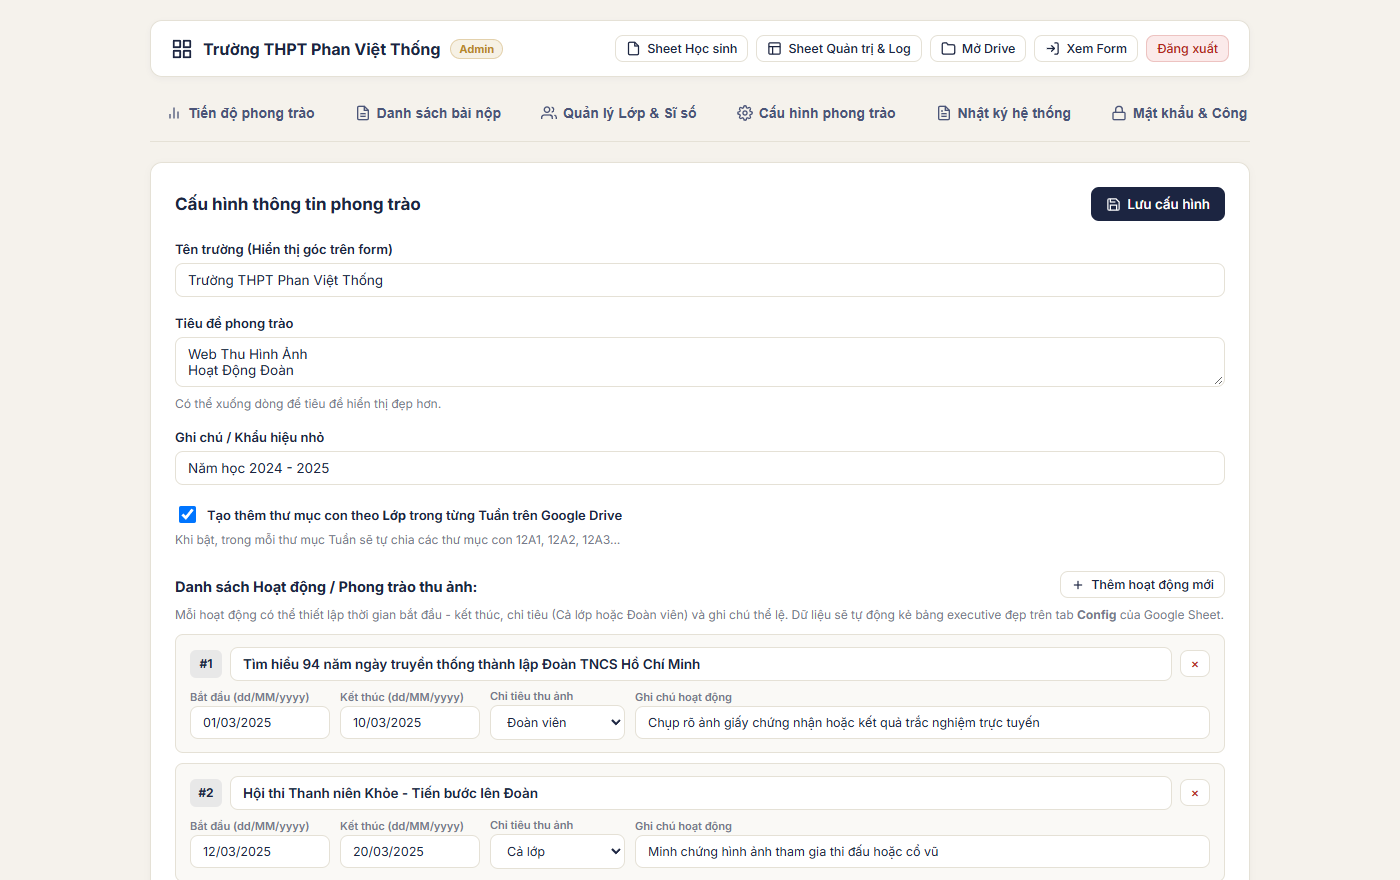
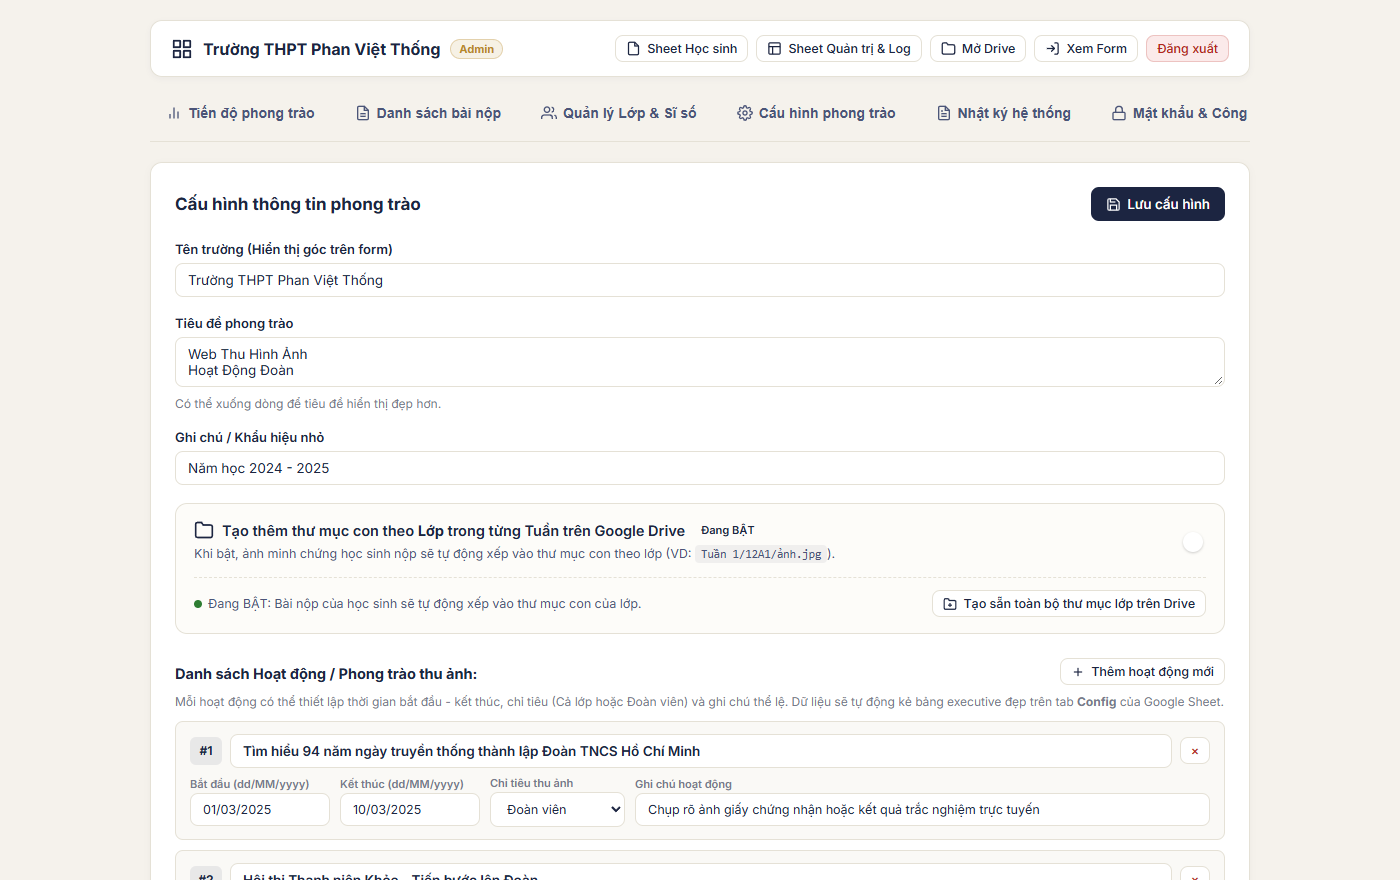
fix: make subfolder by class toggle interactive and add create folders button
- Synchronize D1 and D2 cells in Config sheet so setting changes persist reliably
- Add adminToggleSubfolderByClass for instant auto-save when flipping switch
- Add adminCreateAllClassSubfolders to pre-create all class folders on Google Drive
- Upgrade UI to modern iOS toggle switch with status badge and feedback
- Add action button to create all class folders on Drive with one click

Changed region(s): [[0.1229, 0.5523, 0.8907, 1.0], [0.8293, 0.9818, 0.86, 1.0], [0.8293, 0.8898, 0.86, 0.9205]]

diff --git a/Admin.html b/Admin.html
@@ -524,6 +524,105 @@
         gap: 8px;
       }
 
+      /* ================= SUBFOLDER SETTING CARD & SWITCH ================= */
+      .subfolder-setting-card {
+        background: #FDFCF9;
+        border: 1px solid var(--line);
+        border-radius: 12px;
+        padding: 16px 18px;
+        margin-bottom: 20px;
+        transition: all 0.2s ease;
+      }
+      .subfolder-setting-card:hover {
+        border-color: #CBD5E1;
+      }
+      .subfolder-setting-main {
+        display: flex;
+        justify-content: space-between;
+        align-items: center;
+        gap: 16px;
+      }
+      .subfolder-setting-info {
+        flex: 1;
+      }
+      .subfolder-setting-title {
+        display: flex;
+        align-items: center;
+        gap: 8px;
+        font-size: 14.5px;
+        font-weight: 600;
+        color: var(--navy);
+        flex-wrap: wrap;
+      }
+      .subfolder-setting-desc {
+        font-size: 12.5px;
+        color: var(--ink-soft);
+        margin-top: 5px;
+        line-height: 1.45;
+      }
+      .subfolder-setting-desc code {
+        background: rgba(28,37,65,0.06);
+        padding: 2px 6px;
+        border-radius: 4px;
+        font-family: monospace;
+        font-size: 11.5px;
+      }
+      .subfolder-actions-bar {
+        display: flex;
+        justify-content: space-between;
+        align-items: center;
+        margin-top: 14px;
+        padding-top: 12px;
+        border-top: 1px dashed var(--line);
+        flex-wrap: wrap;
+        gap: 10px;
+      }
+      .switch-toggle {
+        position: relative;
+        display: inline-block;
+        width: 48px;
+        height: 26px;
+        flex-shrink: 0;
+        cursor: pointer;
+      }
+      .switch-toggle input {
+        opacity: 0;
+        width: 0;
+        height: 0;
+      }
+      .switch-toggle .slider {
+        position: absolute;
+        cursor: pointer;
+        top: 0;
+        left: 0;
+        right: 0;
+        bottom: 0;
+        background-color: #CBD5E1;
+        transition: 0.25s ease;
+        border-radius: 26px;
+      }
+      .switch-toggle .slider:before {
+        position: absolute;
+        content: "";
+        height: 20px;
+        width: 20px;
+        left: 3px;
+        bottom: 3px;
+        background-color: white;
+        transition: 0.25s ease;
+        border-radius: 50%;
+        box-shadow: 0 1px 3px rgba(0,0,0,0.25);
+      }
+      .switch-toggle input:checked + .slider {
+        background-color: var(--teal);
+      }
+      .switch-toggle input:focus + .slider {
+        box-shadow: 0 0 1px var(--teal);
+      }
+      .switch-toggle input:checked + .slider:before {
+        transform: translateX(22px);
+      }
+
       /* ================= BANNERS & NOTIFICATIONS ================= */
       .banner {
         display: flex;
@@ -957,12 +1056,36 @@
             <input type="text" id="cfgNote" class="input-text" style="width: 100%;" placeholder="VD: KHKT 2026-2027">
           </div>
 
-          <div class="form-group">
-            <label style="display: flex; align-items: center; gap: 8px; cursor: pointer;">
-              <input type="checkbox" id="cfgSubfolder" style="width: 17px; height: 17px;">
-              <span>Tạo thêm thư mục con theo <b>Lớp</b> trong từng Tuần trên Google Drive</span>
-            </label>
-            <small class="help">Khi bật, trong mỗi thư mục Tuần sẽ tự chia các thư mục con 12A1, 12A2, 12A3...</small>
+          <div class="subfolder-setting-card">
+            <div class="subfolder-setting-main">
+              <div class="subfolder-setting-info">
+                <div class="subfolder-setting-title">
+                  <svg width="20" height="20" viewBox="0 0 24 24" fill="none" stroke="currentColor" stroke-width="2" style="color: var(--teal);"><path d="M22 19a2 2 0 0 1-2 2H4a2 2 0 0 1-2-2V5a2 2 0 0 1 2-2h5l2 3h9a2 2 0 0 1 2 2z"></path></svg>
+                  <span>Tạo thêm thư mục con theo <b>Lớp</b> trong từng Tuần trên Google Drive</span>
+                  <span id="subfolderStatusBadge" class="badge-status badge-done" style="font-size: 11px; padding: 2px 8px;">Đang Tắt</span>
+                </div>
+                <div class="subfolder-setting-desc">
+                  Khi bật, ảnh minh chứng học sinh nộp sẽ tự động xếp vào thư mục con theo lớp (VD: <code>Tuần 1/12A1/ảnh.jpg</code>).
+                </div>
+              </div>
+              <div class="subfolder-toggle-wrapper">
+                <label class="switch-toggle" title="Nhấn để Bật / Tắt ngay lập tức">
+                  <input type="checkbox" id="cfgSubfolder" onchange="handleSubfolderToggle(this)">
+                  <span class="slider round"></span>
+                </label>
+              </div>
+            </div>
+
+            <div class="subfolder-actions-bar">
+              <span id="subfolderFeedback" style="font-size: 12.5px; color: var(--ink-soft); display: flex; align-items: center; gap: 6px;">
+                <span id="subfolderFeedbackDot" style="width: 8px; height: 8px; border-radius: 50%; background: #94A3B8; display: inline-block;"></span>
+                <span id="subfolderFeedbackText">Thay đổi được tự động lưu ngay khi gạt công tắc.</span>
+              </span>
+              <button type="button" id="btnCreateAllFolders" onclick="createAllClassFoldersOnDrive()" class="btn btn-outline btn-sm" title="Tự động tạo sẵn tất cả thư mục của từng lớp trong các tuần trên Drive">
+                <svg width="14" height="14" viewBox="0 0 24 24" fill="none" stroke="currentColor" stroke-width="2"><path d="M22 19a2 2 0 0 1-2 2H4a2 2 0 0 1-2-2V5a2 2 0 0 1 2-2h5l2 3h9a2 2 0 0 1 2 2z"></path><line x1="12" y1="11" x2="12" y2="17"></line><line x1="9" y1="14" x2="15" y2="14"></line></svg>
+                Tạo sẵn toàn bộ thư mục lớp trên Drive
+              </button>
+            </div>
           </div>
 
           <div class="form-group" style="margin-top: 24px;">
@@ -1360,6 +1483,7 @@
             document.getElementById('cfgTitle').value = res.config.tieuDe || '';
             document.getElementById('cfgNote').value = res.config.ghiChu || '';
             document.getElementById('cfgSubfolder').checked = !!res.config.subfolderByClass;
+            updateSubfolderUI(!!res.config.subfolderByClass);
 
             renderWeeksConfig(res.config.weeks || []);
 
@@ -2244,6 +2368,89 @@
             showBanner('globalMsg', 'error', 'Lỗi lưu: ' + err.toString());
           })
           .adminUpdateConfig(adminToken, newCfg);
+      }
+
+      // Cập nhật giao diện Switch & Badge thư mục con theo lớp
+      function updateSubfolderUI(isSub) {
+        var cb = document.getElementById('cfgSubfolder');
+        if (cb) cb.checked = isSub;
+        var badge = document.getElementById('subfolderStatusBadge');
+        var dot = document.getElementById('subfolderFeedbackDot');
+        var text = document.getElementById('subfolderFeedbackText');
+        if (badge) {
+          if (isSub) {
+            badge.className = 'badge-status badge-done';
+            badge.textContent = 'Đang BẬT';
+          } else {
+            badge.className = 'badge-status badge-zero';
+            badge.textContent = 'Đang TẮT';
+          }
+        }
+        if (dot) {
+          dot.style.background = isSub ? '#2E7D32' : '#94A3B8';
+        }
+        if (text) {
+          text.textContent = isSub
+            ? 'Đang BẬT: Bài nộp của học sinh sẽ tự động xếp vào thư mục con của lớp.'
+            : 'Đang TẮT: Bài nộp sẽ lưu thẳng vào thư mục của tuần.';
+        }
+      }
+
+      // Xử lý bật/tắt nhanh bằng công tắc switch
+      function handleSubfolderToggle(cb) {
+        var isChecked = cb.checked;
+        updateSubfolderUI(isChecked);
+        var text = document.getElementById('subfolderFeedbackText');
+        if (text) text.textContent = 'Đang lưu cài đặt vào Google Sheet...';
+
+        google.script.run
+          .withSuccessHandler(function(res) {
+            if (res.success) {
+              updateSubfolderUI(res.enabled);
+              showBanner('globalMsg', 'success', res.message);
+            } else {
+              updateSubfolderUI(!isChecked);
+              showBanner('globalMsg', 'error', res.message);
+            }
+          })
+          .withFailureHandler(function(err) {
+            updateSubfolderUI(!isChecked);
+            showBanner('globalMsg', 'error', 'Lỗi lưu cài đặt: ' + err.toString());
+          })
+          .adminToggleSubfolderByClass(adminToken, isChecked);
+      }
+
+      // Khởi tạo trước tất cả thư mục lớp trên Drive
+      function createAllClassFoldersOnDrive() {
+        if (!confirm('Hệ thống sẽ kiểm tra và tạo sẵn toàn bộ thư mục con của các lớp trong từng Tuần trên Google Drive. Bạn có muốn tiếp tục?')) {
+          return;
+        }
+
+        var btn = document.getElementById('btnCreateAllFolders');
+        var oldHtml = btn.innerHTML;
+        btn.disabled = true;
+        btn.innerHTML = '<div class="spinner"></div> Đang tạo trên Drive...';
+
+        google.script.run
+          .withSuccessHandler(function(res) {
+            btn.disabled = false;
+            btn.innerHTML = oldHtml;
+            if (res.success) {
+              updateSubfolderUI(true);
+              showBanner('globalMsg', 'success', res.message);
+              alert(res.message);
+            } else {
+              showBanner('globalMsg', 'error', res.message);
+              alert(res.message);
+            }
+          })
+          .withFailureHandler(function(err) {
+            btn.disabled = false;
+            btn.innerHTML = oldHtml;
+            showBanner('globalMsg', 'error', 'Lỗi: ' + err.toString());
+            alert('Lỗi tạo thư mục: ' + err.toString());
+          })
+          .adminCreateAllClassSubfolders(adminToken);
       }
 
       // ================= ĐỔI MẬT KHẨU =================
